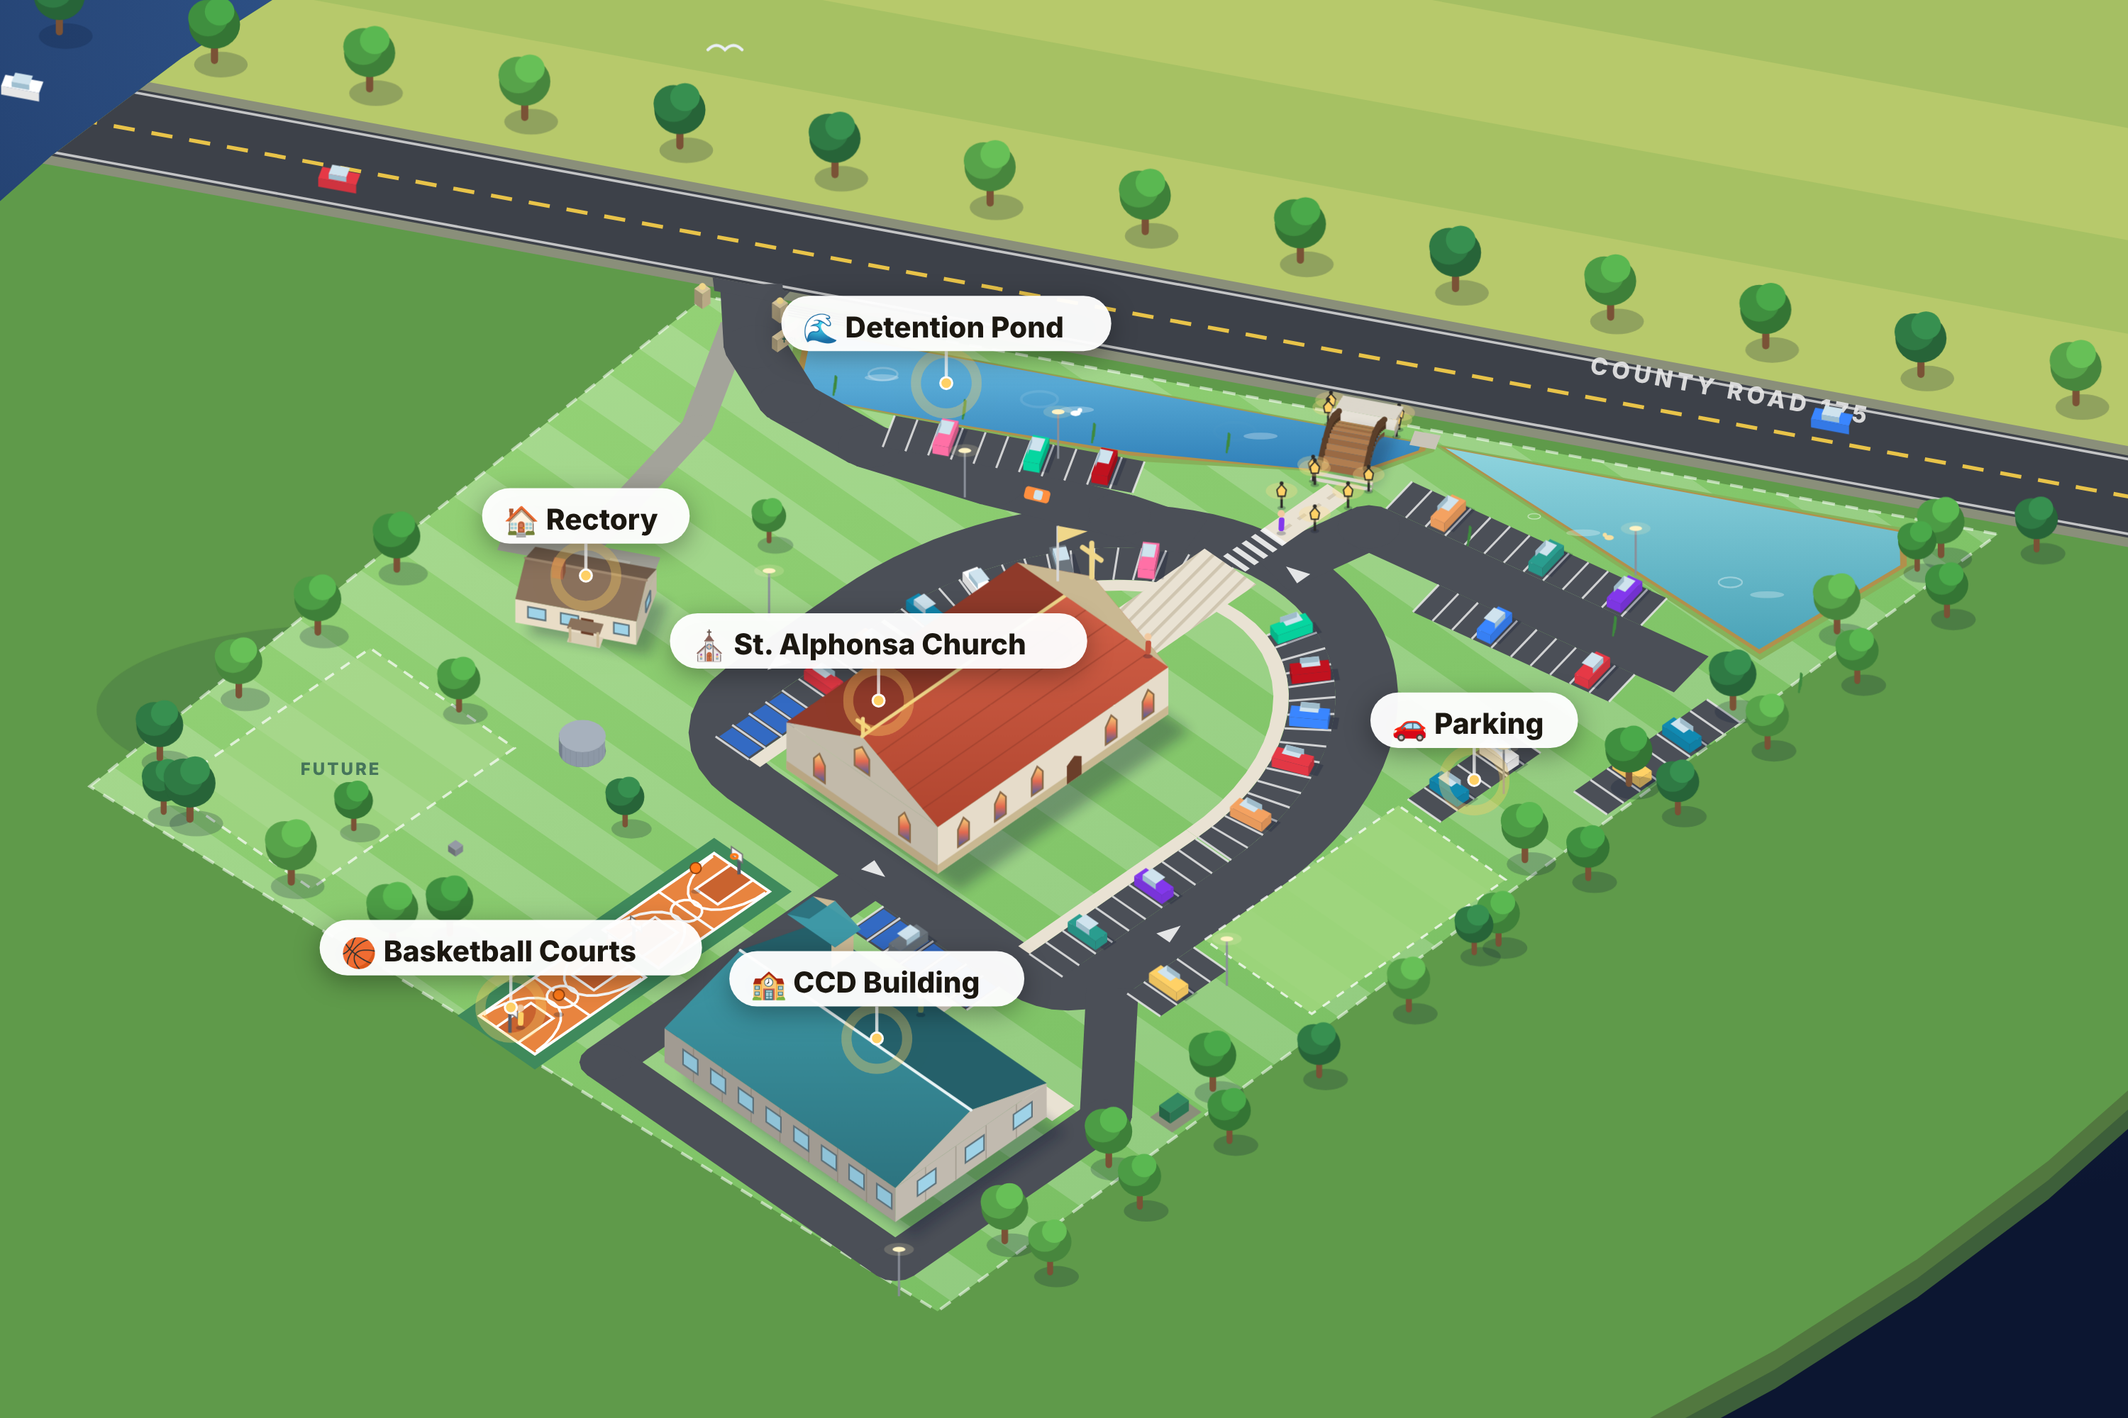
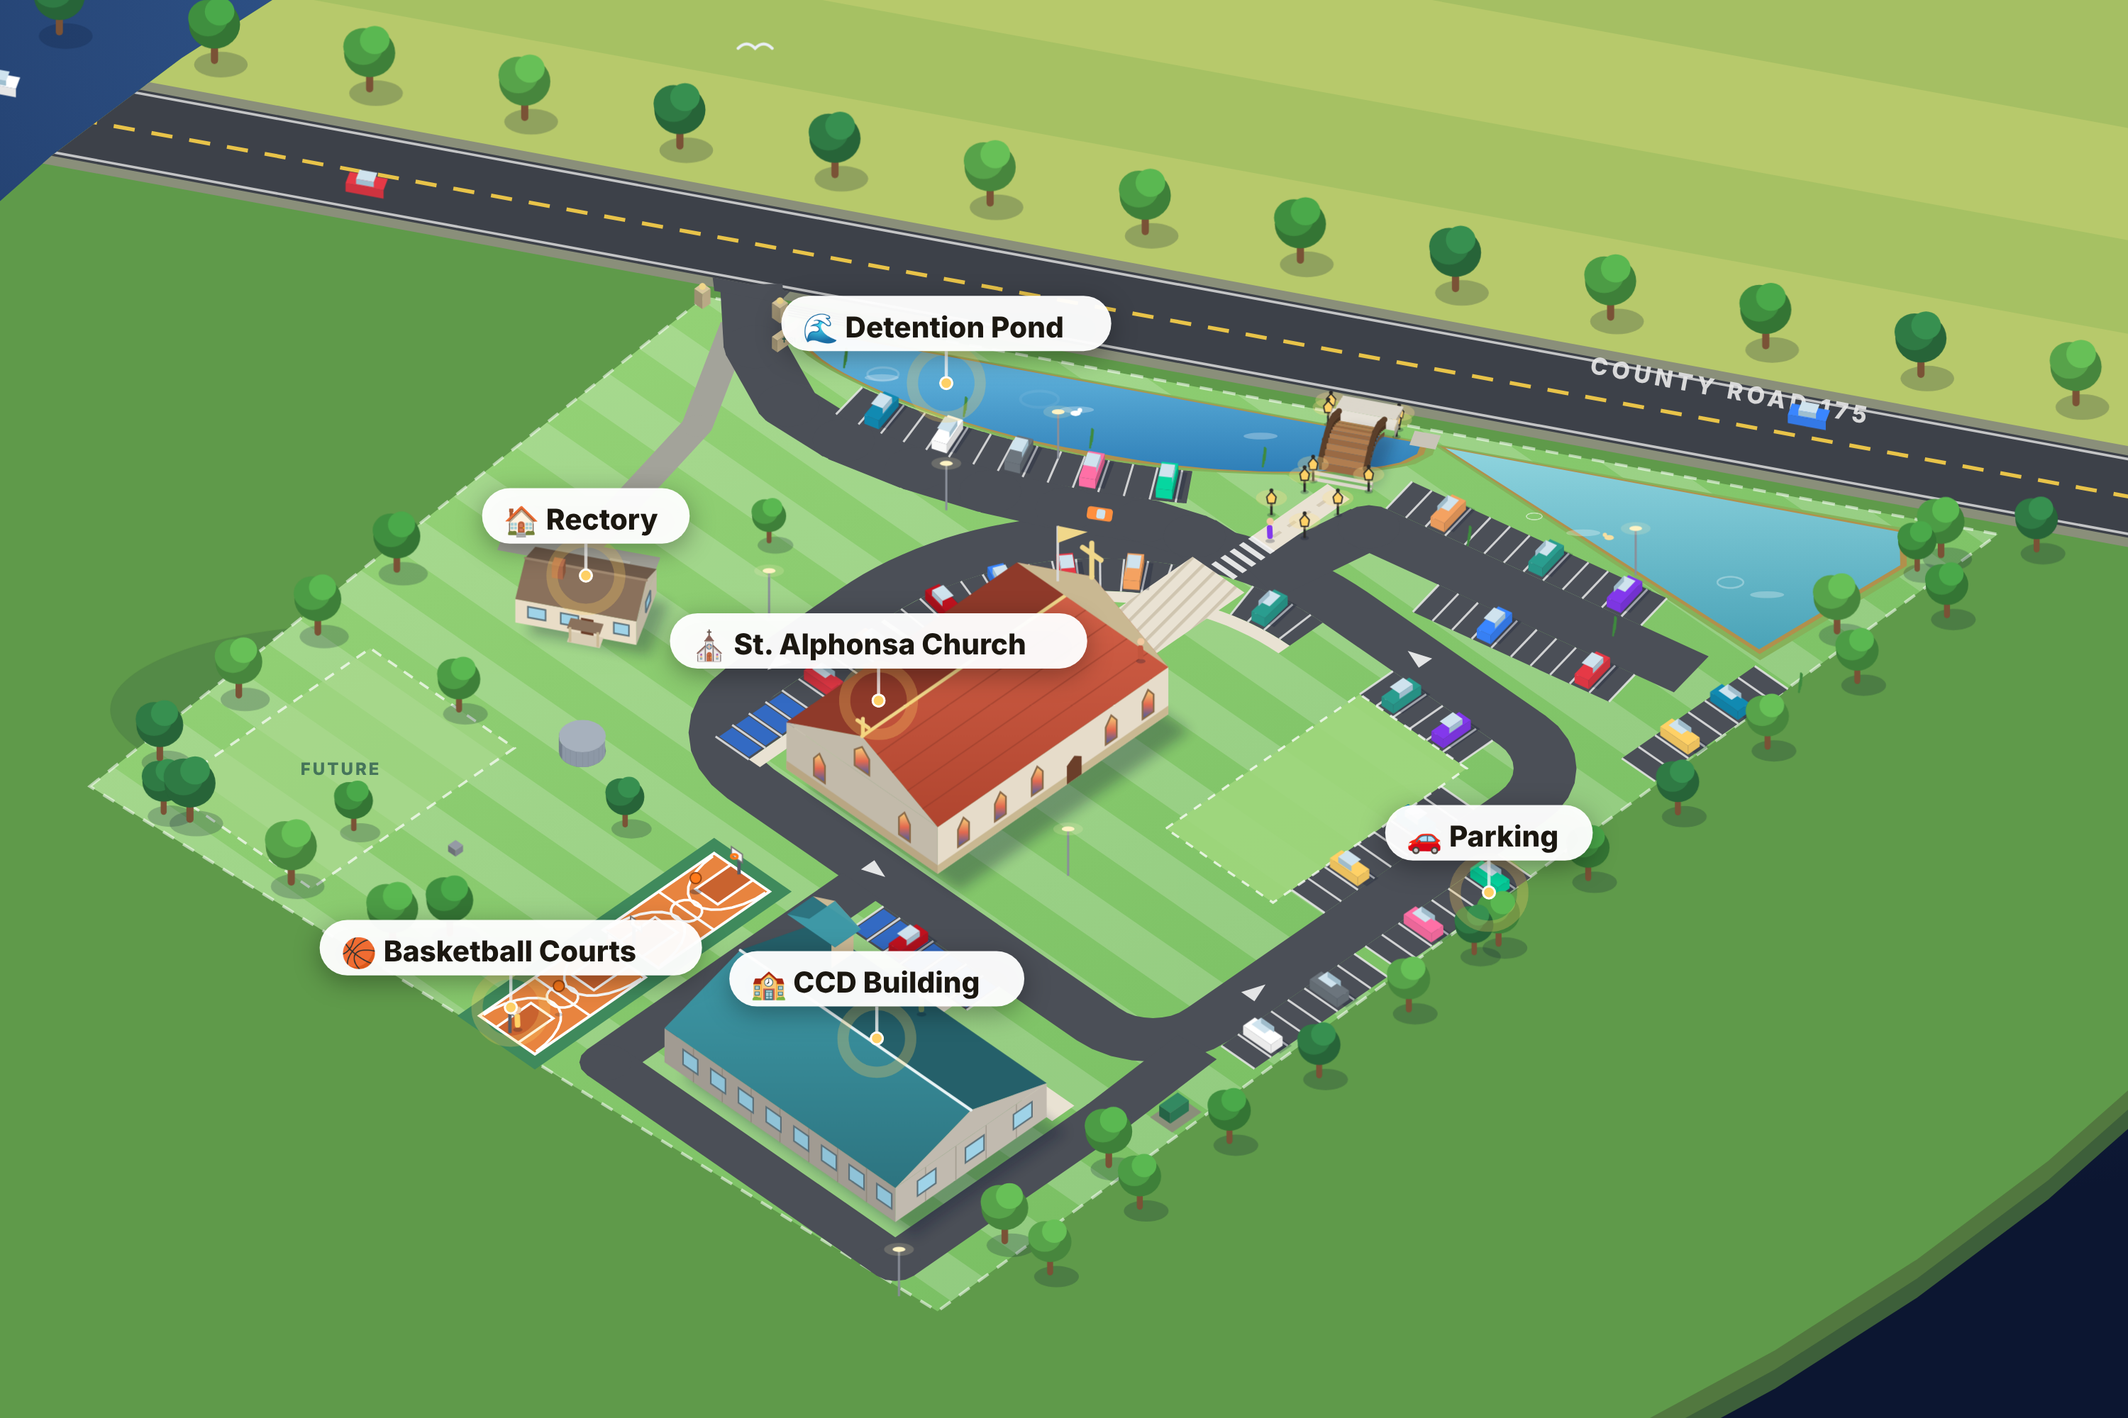
Septic inside the loop with its own rows, curved pond bank with stalls
- Loop: arc from the top leg round the front, then a straight east leg and south leg past the septic field
- Septic field sits inside the loop; stalls run along its east and south sides where the loop borders it
- Radial stalls round the rest of the curve, interrupted only at the entry plaza
- Pond's inner bank is one smooth bow with a curved row of stalls along it, lane following behind

Claude-Session: https://claude.ai/code/session_01ETi8ScE64g863fdLpxkmu7

diff --git a/church-website/assets/js/iso-map.js b/church-website/assets/js/iso-map.js
@@ -43,43 +43,47 @@ window.IsoMap = (function () {
   const EX_DRIVE = [tk(.03, 12), tk(.03, 70), tk(-.02, 150)];
   const HAMMER = [tk(-.08, 150), tk(.04, 150)];                                                             // fire truck turnaround by the house
   // Loop drive as drawn: straight on the CCD side, then one continuous sweep round the front of the church back to the south leg
-  const LOOP = { x0: 200, y0: 168, y1: 380, xc: 300, yc: 274, rx: 130, ry: 106, w: 24 };
+  const LOOP = { x0: 200, y0: 168, y1: 426, xc: 300, yc: 300, rx: 130, ry: 132, w: 24 };   // arc from the top leg round the front to the east leg, which runs straight down past the septic field
   const HW = LOOP.w / 2;
   const STALL = 9, DEPTH = 18;
   const CY = (CHURCH.y0 + CHURCH.y1) / 2;
   const arcX = (rx, ry) => LOOP.xc + rx * Math.sqrt(Math.max(0, 1 - ((CY - LOOP.yc) / ry) ** 2));   // x of an ellipse round the loop centre where it crosses the church axis
-  LOOP.x1 = arcX(LOOP.rx, LOOP.ry); LOOP.axIn = arcX(LOOP.rx - HW, LOOP.ry - HW); LOOP.axOut = arcX(LOOP.rx + HW, LOOP.ry + HW);
+  LOOP.x1 = arcX(LOOP.rx, LOOP.ry); LOOP.axIn = arcX(LOOP.rx - HW, LOOP.ry - HW); LOOP.axOut = arcX(LOOP.rx + HW, LOOP.ry + HW); LOOP.xe = LOOP.xc + LOOP.rx;
   const unit = v => { const L = Math.hypot(v[0], v[1]); return [v[0] / L, v[1] / L]; };
   const add = (p, v, k) => [p[0] + v[0] * k, p[1] + v[1] * k];
   const LOOP_CL = (() => {
     const vs = [{ p: [LOOP.x0, LOOP.y0], r: 40 }];
-    ellipseArc(LOOP.xc, LOOP.yc, LOOP.rx, LOOP.ry, -Math.PI / 2, Math.PI / 2, 48).forEach(q => vs.push({ p: q, r: 0 }));
-    vs.push({ p: [LOOP.x0, LOOP.y1], r: 20 });
+    ellipseArc(LOOP.xc, LOOP.yc, LOOP.rx, LOOP.ry, -Math.PI / 2, 0, 36).forEach(q => vs.push({ p: q, r: 0 }));
+    vs.push({ p: [LOOP.xe, LOOP.y1], r: 30 }); vs.push({ p: [LOOP.x0, LOOP.y1], r: 30 });
     return fillet(vs, 8);
   })();
+  const PK = t => 14 + 32 * Math.pow(Math.max(0, Math.sin(Math.PI * (t - .085) / (.56 - .085))), 0.6);   // pond's inner bank: feet from the road, one smooth bow
+  const PC = t => tk(t, PK(t));
+  const POND_ROW = { t0: .14, t1: .40 };                                                  // curved row of stalls along the bank
   const EA = { o: [468, 275], u: unit([0.2, 0.98]), len: 148 };                        // east aisle from the loop down to the south-east field
   const EAp = [-EA.u[1], EA.u[0]];                                                        // its normal (points west)
   // Parking rows as drawn: o = start of the row on the aisle edge, u = direction along the row, side = which way the stalls extend (+1 = left of u, -1 = right of u)
   const ROWS = [
     { o: [209, LOOP.y0 + HW], u: [1, 0], side: 1, n: 10, ada: [0, 1, 2, 3] },          // top row facing the church (4 ADA + regular; continues round the curve)
-    { o: [209, LOOP.y1 - HW], u: [1, 0], side: -1, n: 10, ada: [] },                   // bottom row inside the loop, closes the ring
-    { o: [220, LOOP.y1 + HW], u: [1, 0], side: 1, n: 4, ada: [] },                     // outside the south leg, west of the septic field
-    { o: [372, LOOP.y1 + HW], u: [1, 0], side: 1, n: 6, ada: [] },                     // outside the south leg, east of the septic field
+    { o: [LOOP.xe - HW, 338], u: [0, 1], side: 1, n: 6, ada: [] },                      // 6 on the east side of the septic field, facing the east leg
+    { o: [305, LOOP.y1 - HW], u: [1, 0], side: -1, n: 9, ada: [] },                    // along the south side of the septic field, facing the south leg
+    { o: [225, LOOP.y1 + HW], u: [1, 0], side: 1, n: 8, ada: [] },                     // 8 outside the south leg
+    { o: [303, LOOP.y1 + HW], u: [1, 0], side: 1, n: 8, ada: [] },                     // 8 outside the south leg
     { o: [LOOP.x0 - HW, 292], u: [0, 1], side: 1, n: 7, ada: [0, 1, 2, 3, 4, 5, 6] },  // 7 ADA by the CCD
-    { o: tk(.17, 63), u: d, side: -1, n: 11, ada: [] },                                // along the pond (16 in the plan)
     { o: add(add(EA.o, EA.u, 40), EAp, 12), u: EA.u, side: 1, n: 10, ada: [] },        // 10 between the loop and the east aisle
     { o: add(EA.o, EAp, -12), u: EA.u, side: -1, n: 13, ada: [] },                     // 16 along the east aisle, by the basin
-    { o: [420, 434], u: [1, 0], side: 1, n: 8, ada: [] }                               // 9 at the south-east boundary
+    { o: [446, 434], u: [1, 0], side: 1, n: 8, ada: [] }                               // 9 at the south-east boundary
   ];
   ROWS.forEach(rw => { rw.u = unit(rw.u); rw.v = rw.side > 0 ? [-rw.u[1], rw.u[0]] : [rw.u[1], -rw.u[0]]; });
-  const ARC_STALLS = [{ a: [-90, -12], out: false }, { a: [12, 90], out: false }];     // radial stalls all round the inside of the curve, degrees from the top; gap at the entry plaza
-  const ENTRY_DRIVE = [tk(.03, -11), tk(.05, 22), tk(.09, 48), tk(.16, 64), tk(.26, 72), tk(.36, 76), tk(.42, 82)];       // one bowed lane from the gate along the pond into the loop's curve
+  const aP = y => Math.asin((y - LOOP.yc) / (LOOP.ry - HW)) * 180 / Math.PI;
+  const ARC_STALLS = [{ a: [-90, aP(CY - 14)], out: false }, { a: [aP(CY + 14), 0], out: false }];   // radial stalls round the inside of the curve; gap at the entry plaza
+  const ENTRY_DRIVE = [tk(.03, -11), tk(.05, 22), tk(.09, 50)].concat([.14, .2, .26, .32, .38].map(t => tk(t, PK(t) + 32)), [tk(.42, 80), tk(.45, 88)]);   // lane from the gate, following the pond bank, into the loop's curve
   const EAST_AISLE = [[LOOP.x1 - 4, 266], EA.o, add(EA.o, EA.u, EA.len)];                                                   // aisle to the south-east field
   const CCD_LOOP = [[LOOP.x0 - HW + 2, CCD.y0 - 16], [CCD.x0 - 16, CCD.y0 - 16], [CCD.x0 - 16, CCD.y1 + 16], [CCD.x1 + 16, CCD.y1 + 16], [LOOP.x0 + 18, LOOP.y1 + 6]];   // paved loop round the CCD, back into the church loop
-  const POND = [tk(.085, 8), tk(.56, 8), tk(.56, 12), tk(.52, 30), tk(.47, 34), tk(.35, 42), tk(.2, 44), tk(.11, 44), tk(.09, 30)];
+  const POND = (() => { const q = [tk(.085, 8), tk(.56, 8)]; for (let t = .56; t >= .085; t -= .01) q.push(PC(t)); return q; })();
   const BASIN = [tk(.575, 8), tk(.93, 8), tk(.94, 26), tk(.86, 86)];                                                        // filtration basin for water quality
   const PED = { t: 0.512, w: 9 };                                                                                           // walkers' entrance at the centre of the frontage, on the church axis
-  const SEPTIC = [[262, LOOP.y1 + HW], [367, LOOP.y1 + HW], [367, LOOP.y1 + HW + 58], [262, LOOP.y1 + HW + 58]];      // 105 x 58 septic field outside the south leg, a stall row either side
+  const SEPTIC = [[295, 338], [400, 338], [400, LOOP.y1 - HW - DEPTH], [295, LOOP.y1 - HW - DEPTH]];                 // 105 x 58 septic field inside the loop, stalls along its east and south sides
   const FUTURE = [[40, 52], [150, 52], [150, 130], [40, 130]];                                                                // reserved for future construction (to confirm)
   const WELL = M(245, 523), TANK = M(367, 477);
 
@@ -297,7 +301,7 @@ window.IsoMap = (function () {
     // flared apron at the gate, and the pond culvert headwalls
     poly(g, [tk(.0, -11), tk(.06, -11), tk(.055, -4), tk(.005, -4)], { fill: '#4b4f57' });
     // centre lines and one-way arrows
-    [[LOOP.x0, 275, 'S'], [255, LOOP.y1, 'E'], [LOOP.xc + LOOP.rx, LOOP.yc, 'N'], [255, LOOP.y0, 'W']].forEach(([x, y, dir]) => {
+    [[LOOP.x0, 275, 'S'], [255, LOOP.y1, 'E'], [LOOP.xe, LOOP.yc + 40, 'N'], [255, LOOP.y0, 'W']].forEach(([x, y, dir]) => {
       const dx = dir === 'E' ? 6 : dir === 'W' ? -6 : 0, dy = dir === 'S' ? 6 : dir === 'N' ? -6 : 0;
       poly(g, [[x + dx, y + dy], [x - dx * .6 + dy * .6, y - dy * .6 + dx * .6], [x - dx * .6 - dy * .6, y - dy * .6 - dx * .6]], { fill: '#ffffff', opacity: .85 });
     });
@@ -315,6 +319,17 @@ window.IsoMap = (function () {
     // radial stalls on the inside of the curve, nose-in toward the church
     const E = (R, a) => [LOOP.xc + Math.cos(a) * R[0], LOOP.yc + Math.sin(a) * R[1]];
     arcSpots = [];
+    // curved row along the pond bank: stalls stand on the bank's normal, the lane runs along their far side
+    (() => {
+      const N = 240, pts = [], nrm = [];
+      for (let i = 0; i <= N; i++) { const t = POND_ROW.t0 + (POND_ROW.t1 - POND_ROW.t0) * i / N; const a = PC(t), b = PC(t + 0.002); const T = unit([b[0] - a[0], b[1] - a[1]]); let m = [-T[1], T[0]]; if (m[0] * n[0] + m[1] * n[1] < 0) m = [-m[0], -m[1]]; pts.push(a); nrm.push(m); }
+      const at = (i, k) => add(pts[i], nrm[i], k);
+      poly(g, pts.map((_, i) => at(i, 2)).concat(pts.map((_, i) => at(N - i, 2 + DEPTH))), { fill: '#4b4f57' });
+      const bounds = [0]; let acc = 0;
+      for (let i = 1; i <= N; i++) { acc += Math.hypot(pts[i][0] - pts[i - 1][0], pts[i][1] - pts[i - 1][1]); if (acc >= STALL) { bounds.push(i); acc = 0; } }
+      bounds.forEach(i => line(g, [...at(i, 2), 0], [...at(i, 2 + DEPTH), 0], { stroke: '#e9e9e9', 'stroke-width': 1, opacity: .85 }));
+      for (let j = 0; j + 1 < bounds.length; j++) { const i = Math.round((bounds[j] + bounds[j + 1]) / 2); arcSpots.push({ c: at(i, 2 + DEPTH / 2), u: nrm[i], pond: true }); }
+    })();
     ARC_STALLS.forEach(({ a: [d0, d1], out }) => {
       const sg = out ? 1 : -1, Ro = [LOOP.rx + sg * HW, LOOP.ry + sg * HW], Ri = [Ro[0] + sg * DEPTH, Ro[1] + sg * DEPTH], Rm = [Ro[0] + sg * DEPTH / 2, Ro[1] + sg * DEPTH / 2];
       const a0 = d0 * Math.PI / 180, a1 = d1 * Math.PI / 180;
@@ -354,9 +369,8 @@ window.IsoMap = (function () {
     const gp = S('g', { 'data-item': 'church', class: 'item' }, g); itemParts.church.push(gp);
     const cy = (CHURCH.y0 + CHURCH.y1) / 2;
     // sidewalk ring between the nose-in stalls and the church: along the north wall and round the curve
-    const Ri = [LOOP.rx - HW - DEPTH, LOOP.ry - HW - DEPTH], aS = Math.PI / 2;
+    const Ri = [LOOP.rx - HW - DEPTH, LOOP.ry - HW - DEPTH], aS = 0;
     poly(gp, [[209, LOOP.y0 + HW + DEPTH], [LOOP.xc, LOOP.y0 + HW + DEPTH], [LOOP.xc, LOOP.y0 + HW + DEPTH + 6], [209, LOOP.y0 + HW + DEPTH + 6]], { fill: '#e9e2d3' });
-    poly(gp, [[209, LOOP.y1 - HW - DEPTH - 6], [LOOP.xc, LOOP.y1 - HW - DEPTH - 6], [LOOP.xc, LOOP.y1 - HW - DEPTH], [209, LOOP.y1 - HW - DEPTH]], { fill: '#e9e2d3' });
     poly(gp, ellipseArc(LOOP.xc, LOOP.yc, Ri[0], Ri[1], -Math.PI / 2, aS, 30).concat(ellipseArc(LOOP.xc, LOOP.yc, Ri[0] - 6, Ri[1] - 6, aS, -Math.PI / 2, 30)), { fill: '#e9e2d3' });
     poly(gp, [[CHURCH.x1, cy - 14], [LOOP.axIn, cy - 14], [LOOP.axIn, cy + 14], [CHURCH.x1, cy + 14]], { fill: 'url(#hatch)' });     // entry plaza on the axis
     // walkers' promenade: from the foot of the bridge to the crosswalk over the loop and the plaza
@@ -504,14 +518,14 @@ window.IsoMap = (function () {
   }
   function drawParkedCars(objs) {
     const cols = ['#e63946', '#f4a261', '#2a9d8f', '#8338ec', '#ffd166', '#118ab2', '#ffffff', '#6c757d', '#ff70a6', '#06d6a0', '#c1121f', '#3a86ff'];
-    const spots = [[0, 5], [0, 8], [1, 2], [1, 6], [2, 1], [3, 1], [3, 4], [4, 2], [5, 2], [5, 6], [5, 9], [6, 3], [6, 8], [7, 2], [7, 7], [7, 11], [8, 2], [8, 5]];
+    const spots = [[0, 5], [0, 8], [1, 1], [1, 4], [2, 2], [2, 6], [3, 1], [3, 5], [4, 2], [4, 6], [5, 2], [6, 3], [6, 8], [7, 2], [7, 7], [7, 11], [8, 2], [8, 5]];
     spots.forEach(([ri, si], k) => {
       const rw = ROWS[ri]; if (si >= rw.n) return;
       const c = add(add(rw.o, rw.u, (si + .5) * STALL), rw.v, DEPTH / 2);
       const g = carAt(c[0], c[1], rw.v, cols[k % cols.length], { 'data-item': 'parking', class: 'item' });
       itemParts.parking.push(g); objs.push({ depth: c[1] - c[0], node: g });
     });
-    [1, 4, 8, 12, 16, 19, 22, 25, 29, 32, 35, 38].forEach((i, k) => {
+    [1, 4, 7, 10, 13, 16, 19, 22, 25, 28, 31, 34].forEach((i, k) => {
       const sp = arcSpots[i]; if (!sp) return;
       const g = carAt(sp.c[0], sp.c[1], sp.u, cols[(k + 5) % cols.length], { 'data-item': 'parking', class: 'item' });
       itemParts.parking.push(g); objs.push({ depth: sp.c[1] - sp.c[0], node: g });
@@ -534,7 +548,7 @@ window.IsoMap = (function () {
     objs.push({ depth: sgn[1] - sgn[0], node: g3 });
   }
   function drawPoles(objs) {
-    [[LOOP.x0 + 70, LOOP.y0 - 20], [LOOP.x0 + 50, LOOP.y1 + 36], [LOOP.xc + 100, LOOP.y1 + 36], [LOOP.xc + 70, LOOP.y0 - 14], [add(add(EA.o, EA.u, 100), EAp, -34)[0], add(add(EA.o, EA.u, 100), EAp, -34)[1]], [tk(.3, 52)[0], tk(.3, 52)[1]], [CCD.x0 - 28, CCD.y1 + 30]].forEach(([x, y]) => {
+    [[LOOP.x0 + 70, LOOP.y0 - 20], [LOOP.x0 + 50, 330], [LOOP.xc + 60, LOOP.y0 - 14], [add(add(EA.o, EA.u, 100), EAp, -34)[0], add(add(EA.o, EA.u, 100), EAp, -34)[1]], [tk(.3, 52)[0], tk(.3, 52)[1]], [CCD.x0 - 28, CCD.y1 + 30]].forEach(([x, y]) => {
       const g = S('g', {}, null);
       line(g, [x, y, 0], [x, y, 22], { stroke: '#8a8f99', 'stroke-width': 1 });
       const t = P(x, y, 22); S('ellipse', { cx: t[0], cy: t[1], rx: 3, ry: 1.2, fill: '#fff3c4' }, g);
@@ -565,7 +579,6 @@ window.IsoMap = (function () {
     if (inRect(p, CHURCH, 10) || inRect(p, CCD, 30) || inRect(p, RECTORY, 4)) return false;
     if (inRect(p, { x0: COURTS[0].x0, y0: COURTS[0].y0, x1: COURTS[1].x1, y1: COURTS[1].y1 }, 10)) return false;
     if (inRect(p, { x0: LOOP.x0 - HW - DEPTH, y0: LOOP.y0 - HW - DEPTH, x1: LOOP.xc + LOOP.rx + HW + DEPTH, y1: LOOP.y1 + HW + DEPTH }, 5)) return false;
-    if (inRect(p, { x0: SEPTIC[0][0], y0: SEPTIC[0][1], x1: SEPTIC[2][0], y1: SEPTIC[2][1] }, 6)) return false;
     if (inRect(p, { x0: LOOP.x1 - 10, y0: 230, x1: 540, y1: LOOP.y1 + HW + DEPTH }, 5)) return false;     // east aisle and its rows
     const t = tOf(p), k = kOf(p);
     if (t > .0 && t < .6 && k > -12 && k < 96) return false;                                                // pond, pond row, entry drive, bridge walk
@@ -592,7 +605,7 @@ window.IsoMap = (function () {
   function drawPondObjects(objs) {
     const g = S('g', { 'data-item': 'pond', class: 'item' }, null); itemParts.pond.push(g);
     [[.15, 24], [.27, 22], [.42, 20], [.66, 36], [.82, 52]].forEach(([t, k], i) => { const c0 = P(...tk(t, k), 0); S('ellipse', { class: 'ripple', cx: c0[0], cy: c0[1], rx: 7, ry: 3, fill: 'none', stroke: '#fff', 'stroke-width': 1, style: `animation-delay:${-i * 0.7}s` }, g); });
-    [[.12, 40], [.22, 40], [.32, 40], [.42, 32], [.62, 58], [.75, 92], [.9, 104]].forEach(([t, k]) => { const p = tk(t, k); for (let j = 0; j < 3; j++) line(g, [p[0] + j * 1.5, p[1] - j, 0], [p[0] + j * 1.5 + .6, p[1] - j, 5 + (j % 2) * 2], { stroke: '#3f8a3f', 'stroke-width': .9, 'stroke-linecap': 'round' }); });
+    [[.12, PK(.12) - 3], [.22, PK(.22) - 3], [.32, PK(.32) - 3], [.45, PK(.45) - 3], [.62, 58], [.75, 92], [.9, 104]].forEach(([t, k]) => { const p = tk(t, k); for (let j = 0; j < 3; j++) line(g, [p[0] + j * 1.5, p[1] - j, 0], [p[0] + j * 1.5 + .6, p[1] - j, 5 + (j % 2) * 2], { stroke: '#3f8a3f', 'stroke-width': .9, 'stroke-linecap': 'round' }); });
     const dk = P(...tk(.3, 26), 0); S('ellipse', { cx: dk[0], cy: dk[1], rx: 2.4, ry: 1.3, fill: '#fff' }, g); S('circle', { cx: dk[0] + 2, cy: dk[1] - 1.4, r: 1.1, fill: '#fff' }, g);
     const dk2 = P(...tk(.72, 40), 0); S('ellipse', { cx: dk2[0], cy: dk2[1], rx: 2.2, ry: 1.2, fill: '#f7dfa0' }, g); S('circle', { cx: dk2[0] - 2, cy: dk2[1] - 1.3, r: 1, fill: '#f7dfa0' }, g);
     const c = tk(.4, 26); objs.push({ depth: c[1] - c[0] + 40, node: g });
@@ -683,7 +696,7 @@ window.IsoMap = (function () {
     church: () => P(CHURCH.x0 + 11, (CHURCH.y0 + CHURCH.y1) / 2 - 2, CHURCH.h + CHURCH.rh + 36),
     ccd: () => P((CCD.x0 + CCD.x1) / 2, CCD.y0 + 74, CCD.h + CCD.rh + 30),
     courts: () => P(COURTS[0].x0 + 6, cyc - 4, 34),
-    parking: () => P(LOOP.xc + 100, LOOP.y1 + 20, 24),
+    parking: () => P(LOOP.xc + 60, LOOP.y1 + 22, 24),
     pond: () => { const c = tk(.2, 26); return P(c[0], c[1], 30); },
     rectory: () => P(RECTORY.c[0], RECTORY.c[1], RECTORY.h + RECTORY.rh + 24)
   };
